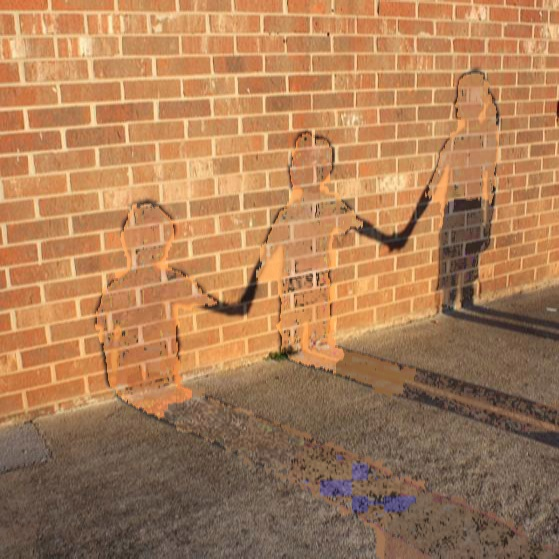
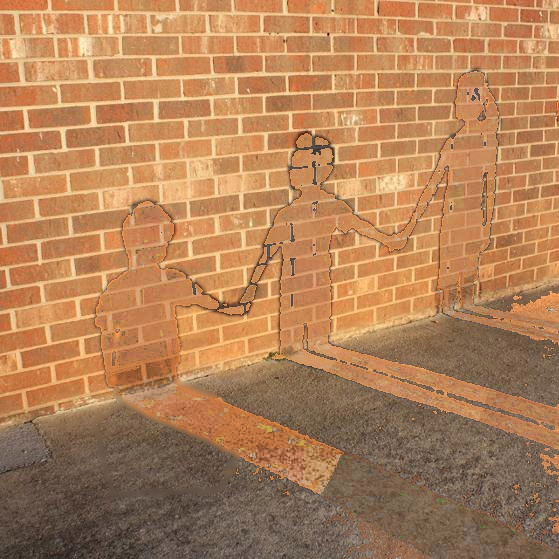
12/08

diff --git a/main.py b/main.py
@@ -16,7 +16,7 @@ def quick_shift(img):
     # 使用 Quickshift 分割圖像
     seg = quickshift(
         LAB_img,
-        kernel_size=9,    # 對應 MATLAB 的 SpatialBandWidth
+        kernel_size=15,    # 對應 MATLAB 的 SpatialBandWidth
         max_dist=15,      # 對應 MATLAB 的 RangeBandWidth
         ratio=0.1       # 可調參數，用於控制區域間距離
     )
@@ -39,7 +39,7 @@ def mean_shift(img):
     flat_img_with_coordinates = np.column_stack([flat_img, x.flatten(), y.flatten()])
 
     # Estimate bandwidth for Mean Shift
-    bandwidth = estimate_bandwidth(flat_img_with_coordinates, quantile=0.006, n_samples=500)
+    bandwidth = estimate_bandwidth(flat_img_with_coordinates, quantile=0.01, n_samples=500)
 
     # Perform Mean Shift clustering
     mean_shift = MeanShift(bandwidth=bandwidth, bin_seeding=True)
@@ -60,6 +60,62 @@ def mean_shift(img):
     border_img = (mark_boundaries(img, segmented_img, color=(0, 0, 0)) * 255).astype(np.uint8)
 
     return segmented_img, border_img
+
+def mean_shift_with_merge(img, min_region_size=800):
+    """
+    Perform Mean Shift segmentation and merge small regions.
+    
+    :param img: Input image
+    :param min_region_size: Minimum size of a region to retain. Smaller regions will be merged.
+    :return: segmented_img (label image), border_img (image with boundaries marked)
+    """
+
+    height, width, _ = img.shape
+    img = cv2.medianBlur(img, 3)
+    flat_img = img.reshape((-1, 3))
+
+    # Create the feature space
+    x, y = np.meshgrid(np.arange(width), np.arange(height))
+    flat_img_with_coordinates = np.column_stack([flat_img, x.flatten(), y.flatten()])
+
+    # Estimate bandwidth for Mean Shift
+    bandwidth = estimate_bandwidth(flat_img_with_coordinates, quantile=0.01, n_samples=500)
+
+    # Perform Mean Shift clustering
+    mean_shift = MeanShift(bandwidth=bandwidth, bin_seeding=True)
+    print("mean_shift.fit...")
+    mean_shift.fit(flat_img_with_coordinates)
+    labels = mean_shift.labels_
+
+    # Reshape the labels to the original image shape
+    segmented_img = labels.reshape((height, width))
+
+    # Merge small regions
+    unique_labels, counts = np.unique(segmented_img, return_counts=True)
+    small_regions = unique_labels[counts < min_region_size]
+
+    for region_label in small_regions:
+        mask = segmented_img == region_label
+
+        # Find the nearest neighboring region
+        dilated_mask = cv2.dilate(mask.astype(np.uint8), cv2.getStructuringElement(cv2.MORPH_ELLIPSE, (3, 3)))
+        neighbor_labels = segmented_img[dilated_mask.astype(bool) & ~mask]
+        neighbor_labels = neighbor_labels[neighbor_labels != region_label]  # Exclude itself
+
+        if len(neighbor_labels) > 0:
+            # Replace the region_label with the most common neighboring label
+            most_common_label = np.bincount(neighbor_labels).argmax()
+            segmented_img[mask] = most_common_label
+
+    # Relabel to ensure labels are continuous
+    unique_labels = np.unique(segmented_img)
+    label_mapping = {old_label: new_label for new_label, old_label in enumerate(unique_labels)}
+    relabeled_img = np.vectorize(label_mapping.get)(segmented_img)
+
+    # Generate the boundary image
+    border_img = (mark_boundaries(img, relabeled_img, color=(0, 0, 0)) * 255).astype(np.uint8)
+
+    return relabeled_img, border_img
 
 
 def find_center(img, segmented_img):
@@ -404,70 +460,155 @@ def shadow_detection(img, segmented_img, cluster_centers, cluster_std, near_labe
 
 def hist_match(source, template):
     """
-    Adjust the pixel values of the source image to match the histogram of the template image.
+    Match the histogram of the source region to that of the template region.
+    
+    Parameters:
+    - source: ndarray
+        The pixel values in the shadow region.
+    - template: ndarray
+        The pixel values in the non-shadow region.
+
+    Returns:
+    - matched: ndarray
+        The pixel values of the source adjusted to match the template.
     """
-    s_values, bin_idx, s_counts = np.unique(source, return_inverse=True, return_counts=True)
-    t_values, t_counts = np.unique(template, return_counts=True)
-    
-    # Compute the cumulative distribution functions (CDF)
-    s_cdf = np.cumsum(s_counts).astype(np.float64) / source.size
-    t_cdf = np.cumsum(t_counts).astype(np.float64) / template.size
+    # 檢查是否有足夠像素進行匹配
+    if len(source) == 0 or len(template) == 0:
+        print("Empty source or template region. Skipping histogram matching.")
+        return source  # 原樣返回
 
-    # Interpolate to find the mapping
-    interp_t_values = np.interp(s_cdf, t_cdf, t_values)
-    
-    # Ensure the values are within the original range
-    matched = np.clip(interp_t_values[bin_idx], source.min(), source.max())
-    return matched.reshape(source.shape)
+    # 增加微小隨機噪聲以避免單一值問題
+    if np.ptp(source) == 0:  # 如果 source 是單一值（ptp: 最大值 - 最小值）
+        source = source + np.random.normal(scale=0.01, size=source.shape)
+    if np.ptp(template) == 0:  # 如果 template 是單一值
+        template = template + np.random.normal(scale=0.01, size=template.shape)
 
-def find_non_shadow_pair(img,label, segmented_img, center_indices):
-    label_num = len(np.unique(segmented_img))
-    near_labels = np.full((label_num), -1)
+    # 計算 source 和 template 的直方圖和累積分佈函數（CDF）
+    src_values, bin_idx, src_counts = np.unique(source, return_inverse=True, return_counts=True)
+    tmpl_values, tmpl_counts = np.unique(template, return_counts=True)
 
+    src_cdf = np.cumsum(src_counts).astype(np.float64) / source.size
+    tmpl_cdf = np.cumsum(tmpl_counts).astype(np.float64) / template.size
+
+    # 對應 source 的 CDF 到 template 的值
+    interp_tmpl_values = np.interp(src_cdf, tmpl_cdf, tmpl_values)
+
+    # 將對應值回映射到原圖
+    matched = interp_tmpl_values[bin_idx]
+
+    # 確保結果在有效範圍內（如 0~255）
+    matched = np.clip(matched, np.min(template), np.max(template))
+
+    return matched
+
+
+import numpy as np
+
+def find_non_shadow_pair(img, label, segmented_img, center_indices):
+    label_num = len(np.unique(segmented_img))  # 區域數量
+    near_labels = np.full((label_num), -1)    # 配對結果初始化為 -1
+
+    # 計算梯度與紋理直方圖
     gradient_hist, grad_mag = cal_gradient_hist(img, segmented_img)
     texture_hist, lbp_norm = cal_texture_hist(img, segmented_img)
 
+    # 圖像尺寸
+    img_height, img_width = img.shape[:2]
+    max_dim = max(img_height, img_width)  # 最大邊長，用於距離歸一化
+
     for i in range(label_num):
-        if label[i] == 1:  # Skip non-shadow regions
+        if label[i] == 1:  # 跳過非陰影區域
             continue
         distances = []
         valid_indices = []
+
         for j in range(label_num):
-            if label[j] == 1:  # Only consider regions where label == 1
+            if label[j] == 1:  # 僅考慮非陰影區域
+                # 計算梯度距離（絕對差值）
                 gradient_dist = np.sum(np.abs(gradient_hist[i] - gradient_hist[j]))
+
+                # 計算紋理距離（絕對差值）
                 texture_dist = np.sum(np.abs(texture_hist[i] - texture_hist[j]))
-                center_dist = cal_center_dist(img, i, j, center_indices)
-                distance = gradient_dist + texture_dist + center_dist
-                distances.append(distance)
+
+                # 計算幾何中心距離，並進行歸一化
+                center_i = center_indices[i]
+                center_j = center_indices[j]
+                euclidean_dist = np.sqrt((center_i[0] - center_j[0]) ** 2 + (center_i[1] - center_j[1]) ** 2)
+                center_dist = euclidean_dist / max_dim
+
+                # 總距離
+                total_distance = gradient_dist + texture_dist + center_dist
+                distances.append(total_distance)
                 valid_indices.append(j)
-        
-        # Check if there are valid matches
+
+        # 如果找到有效的非陰影區域，選擇距離最小的作為匹配對象
         if valid_indices:
-            # Find the minimum distance among valid matches
             nearest_index = np.argmin(distances)
             near_labels[i] = valid_indices[nearest_index]
 
     return near_labels
 
-def shadow_removal(img, segmented_img, label, near_labels, center_indices,i):
+# def shadow_removal(img, segmented_img, label, near_labels, center_indices,i):
+#     """
+#     Perform shadow removal based on histogram matching and boundary smoothing.
+#     """
+#     near_labels = find_non_shadow_pair(img,label, segmented_img, center_indices)
+#     # draw nearest region
+#     near_img = draw_nearest_region_only_shadow(img, segmented_img, center_indices, near_labels,label)
+#     cv2.imwrite("result/{}_near_img.jpg".format(i), near_img)
+#     hsv_img = cv2.cvtColor(img, cv2.COLOR_BGR2HSV).astype(np.float32)
+#     h_channel, s_channel, v_channel = hsv_img[:, :, 0], hsv_img[:, :, 1], hsv_img[:, :, 2]
+
+#     for shadow_idx, lbl in enumerate(label):
+#         if lbl == 0:  # Shadow region
+#             # Find the nearest non-shadow region
+#             j = near_labels[shadow_idx]
+#             if label[j] == 1:  # Ensure it's a non-shadow region
+#                 # Perform histogram matching for each channel
+#                 print("Performing histogram matching for shadow region {} and non-shadow region {}".format(i, j))
+#                 shadow_mask = (segmented_img == shadow_idx)
+#                 non_shadow_mask = (segmented_img == j)
+                
+#                 h_channel[shadow_mask] = hist_match(h_channel[shadow_mask], h_channel[non_shadow_mask])
+#                 s_channel[shadow_mask] = hist_match(s_channel[shadow_mask], s_channel[non_shadow_mask])
+#                 v_channel[shadow_mask] = hist_match(v_channel[shadow_mask], v_channel[non_shadow_mask])
+
+#     h_channel = np.clip(h_channel, 0, 180)
+#     s_channel = np.clip(s_channel, 0, 255)
+#     v_channel = np.clip(v_channel, 0, 255)
+
+#     # Combine back the channels
+#     hsv_img[:, :, 0], hsv_img[:, :, 1], hsv_img[:, :, 2] = h_channel, s_channel, v_channel
+
+#     # Convert back to BGR color space
+#     result_img = cv2.cvtColor(hsv_img.astype(np.uint8), cv2.COLOR_HSV2BGR)
+
+#     # Smooth shadow boundaries
+#     kernel = cv2.getGaussianKernel(ksize=3, sigma=3)  # Adjust sigma for less aggressive smoothing
+#     smooth_result_img = cv2.filter2D(result_img, -1, kernel)
+
+#     return smooth_result_img
+
+
+def shadow_removal(img, segmented_img, label, near_labels, center_indices, i):
     """
     Perform shadow removal based on histogram matching and boundary smoothing.
     """
-    near_labels = find_non_shadow_pair(img,label, segmented_img, center_indices)
+    near_labels = find_non_shadow_pair(img, label, segmented_img, center_indices)
     # draw nearest region
-    near_img = draw_nearest_region_only_shadow(img, segmented_img, center_indices, near_labels,label)
+    near_img = draw_nearest_region_only_shadow(img, segmented_img, center_indices, near_labels, label)
     cv2.imwrite("result/{}_near_img.jpg".format(i), near_img)
     hsv_img = cv2.cvtColor(img, cv2.COLOR_BGR2HSV).astype(np.float32)
     h_channel, s_channel, v_channel = hsv_img[:, :, 0], hsv_img[:, :, 1], hsv_img[:, :, 2]
 
-    for i, lbl in enumerate(label):
+    for shadow_idx, lbl in enumerate(label):
         if lbl == 0:  # Shadow region
             # Find the nearest non-shadow region
-            j = near_labels[i]
+            j = near_labels[shadow_idx]
             if label[j] == 1:  # Ensure it's a non-shadow region
                 # Perform histogram matching for each channel
                 print("Performing histogram matching for shadow region {} and non-shadow region {}".format(i, j))
-                shadow_mask = (segmented_img == i)
+                shadow_mask = (segmented_img == shadow_idx)
                 non_shadow_mask = (segmented_img == j)
                 
                 h_channel[shadow_mask] = hist_match(h_channel[shadow_mask], h_channel[non_shadow_mask])
@@ -485,8 +626,15 @@ def shadow_removal(img, segmented_img, label, near_labels, center_indices,i):
     result_img = cv2.cvtColor(hsv_img.astype(np.uint8), cv2.COLOR_HSV2BGR)
 
     # Smooth shadow boundaries
-    kernel = cv2.getGaussianKernel(ksize=3, sigma=3)  # Adjust sigma for less aggressive smoothing
-    smooth_result_img = cv2.filter2D(result_img, -1, kernel)
+    shadow_edges = cv2.Canny((segmented_img > 0).astype(np.uint8) * 255, 100, 200)
+    dilated_edges = cv2.dilate(shadow_edges, cv2.getStructuringElement(cv2.MORPH_ELLIPSE, (5, 5)))
+    edge_mask = dilated_edges > 0
+
+    smooth_result_img = result_img.copy()
+    result_blur = cv2.GaussianBlur(result_img, (9, 9), sigmaX=3, sigmaY=3)
+
+    # Apply blur only to edge areas
+    smooth_result_img[edge_mask] = result_blur[edge_mask]
 
     return smooth_result_img
 
@@ -506,14 +654,15 @@ def main():
         # TODO: STEP1 SHADOW DETECTION
 
         # segmented_img, border_img = mean_shift(img)
-        segmented_img, border_img = quick_shift(img)
+        segmented_img, border_img = mean_shift_with_merge(img, min_region_size=500)
+        # segmented_img, border_img = quick_shift(img)   
 
         #cv2.imshow("meanshift", border_img)
         #cv2.waitKey(0)
         #cv2.imwrite("result/input{}_meanshift.jpg".format(i + 1), border_img)
         
         # np.save('segmented_img_input{}.npy'.format(i), segmented_img)
-        segmented_img = np.load('segmented_img_input{}.npy'.format(i))
+        # segmented_img = np.load('segmented_img_input{}.npy'.format(i))
 
         center_indices, center_marked_img = find_center(img, segmented_img)
 
